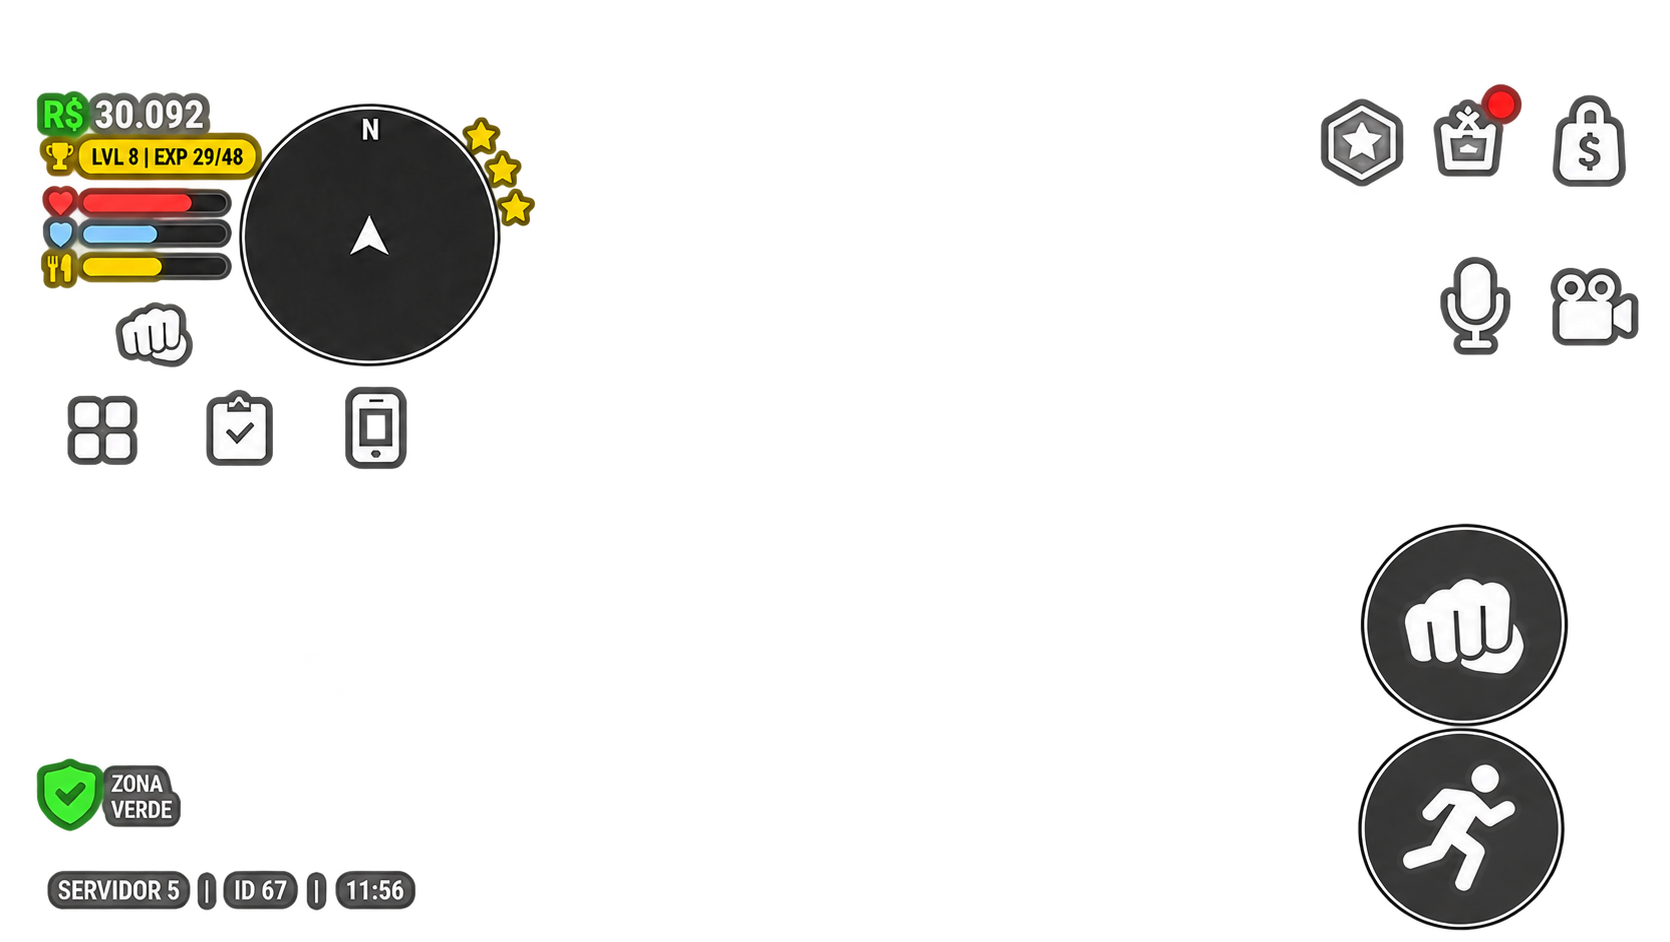
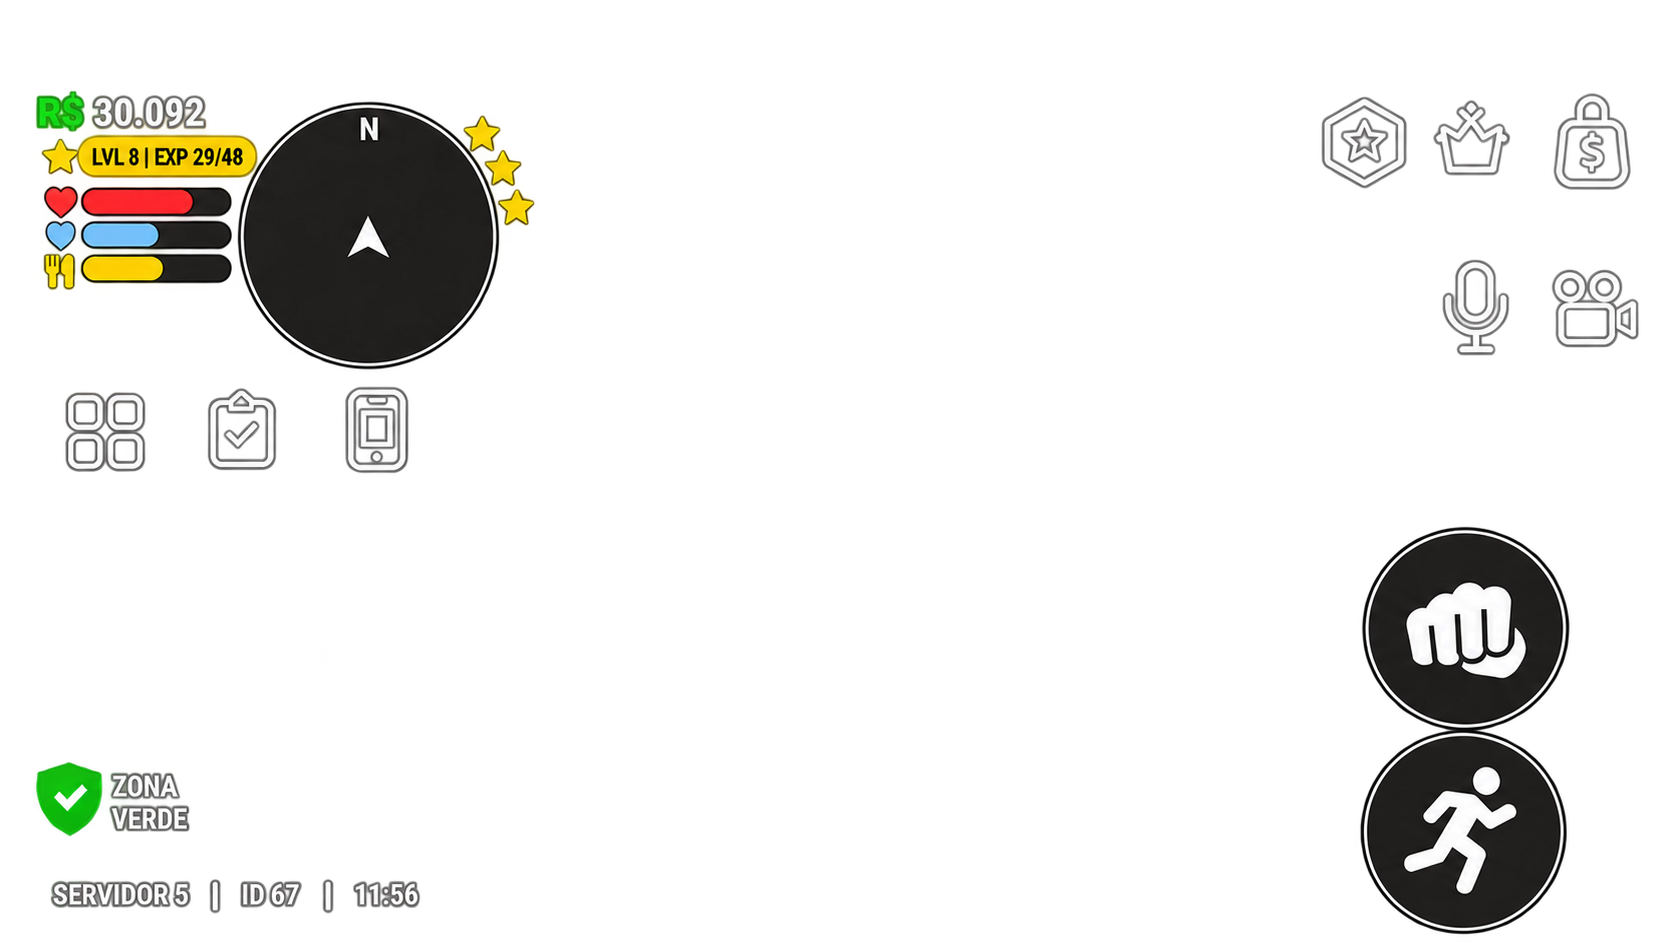
Refine HUD artwork and add verified admin chat identity in 0.5.5

diff --git a/TestePersonagem/Assets/Scripts/CharacterFlowVerification.cs b/TestePersonagem/Assets/Scripts/CharacterFlowVerification.cs
@@ -276,12 +276,15 @@ public sealed class CharacterFlowVerification : MonoBehaviour
         Check(ui.Q<Label>(className:"h2-cash").text=="30.092"&&ui.Q<Label>("stat-heart-value").text=="75","Dinheiro e vida são dados reais, sem números fixos da arte");
         player.Cash=cash;player.Health=health;
         Check(ui.Q<Label>("game-version").text=="v"+Application.version,"Número exibido acompanha a versão instalada");
+        var identity=AccountSession.Instance.State;string layoutRole=identity.accountRole;int layoutLevel=identity.adminLevel;
+        identity.accountRole="admin";identity.adminLevel=1;yield return null;
         foreach(string name in new[]{"nav-menu","nav-session","nav-phone"})
         {
             var button=ui.Q<Button>(name);button.Focus();Dispatch(button);yield return null;
             Check(hud.IsPanelOpen,"Atalho do HUB2 abre painel: "+name);hud.ClosePanel();
         }
         yield return VerifyActionSpacing();
+        identity.accountRole=layoutRole;identity.adminLevel=layoutLevel;yield return null;
         var controls=FindAnyObjectByType<MobileControls>();
         var left=new Vector2(Screen.width*.36f,Screen.height*.2f);var right=new Vector2(Screen.width*.66f,Screen.height*.4f);
         controls.ProcessTouch(10,left,Vector2.zero,TouchPhase.Began);controls.ProcessTouch(10,left+Vector2.up*200,Vector2.up*200,TouchPhase.Moved);
@@ -303,6 +306,8 @@ public sealed class CharacterFlowVerification : MonoBehaviour
         using(var evt=NavigationSubmitEvent.GetPooled())area.SendEvent(evt);
         yield return null;
         Check(InGameChat.Editing&&Visible(ui.Q("chat-composer")),"Clicar no histórico abre o campo de mensagem");
+        var chatBackground=ui.Q("chat-area").resolvedStyle.backgroundColor;
+        Check(chatBackground.a>.25f&&chatBackground.a<.6f&&chatBackground.r<.05f,"Chat aberto tem fundo preto leve e transparente");
         Check(ui.Q("action-day-night")==null,"Botão de dia e noite removido do HUD");
         player.DemoInput=Vector2.up;Vector3 before=player.transform.position;
         player.RequestJump();yield return new WaitForSecondsRealtime(.3f);
@@ -331,6 +336,11 @@ public sealed class CharacterFlowVerification : MonoBehaviour
         Check(!InGameChat.Editing,"Fechar libera os controles novamente");
         var state=AccountSession.Instance.State;string oldRole=state.accountRole;int oldAdmin=state.adminLevel;
         state.accountRole="admin";state.adminLevel=1;
+        yield return null;
+        var adminButton=ui.Q<Button>("action-admin");
+        Check(Visible(adminButton)&&adminButton.Q<HudIcon>().Kind=="admin","Conta administrativa vê o botão dourado de admin");
+        string panelBefore=GameHud.Instance.CurrentPanel;adminButton.Focus();Dispatch(adminButton);yield return null;
+        Check(GameHud.Instance.CurrentPanel==panelBefore,"Botão de admin permanece sem função");
         chat.VerificationSend=DelayedChatReply;
         chat.Open();ui.Q<TextField>("chat-input").value="Mensagem instantânea";chat.Send();
         Check(!chat.IsOpen&&!InGameChat.Editing&&ui.Q<TextField>("chat-input").value=="",
@@ -340,17 +350,28 @@ public sealed class CharacterFlowVerification : MonoBehaviour
         yield return new WaitForSecondsRealtime(1.5f);
         Check(ui.Q("chat-feed").Query<Label>().ToList().FindAll(label=>label.text.Contains("Mensagem instantânea")).Count==1,
             "Confirmação e sincronização não duplicam o eco local");
+        Check(ui.Q("chat-feed").Query<Label>(className:"chat-author-admin").ToList().Exists(label=>label.text=="[ADMIN] "+state.name+":"),
+            "Mensagem de admin mantém tag e nome destacados após confirmação");
+        chat.Receive(new ChatMessage{id=51,messageId="verified-admin",uid="902",name="Admin Remoto",isAdmin=true,text="<b>Texto admin literal</b>"});
+        chat.Receive(new ChatMessage{id=52,messageId="normal-player",uid="903",name="Jogador Normal",isAdmin=false,text="Mensagem comum"});
+        yield return null;
+        var author=ui.Q("chat-feed").Query<Label>(className:"chat-author-admin").ToList().Find(label=>label.text=="[ADMIN] Admin Remoto:");
+        Check(author!=null&&author.resolvedStyle.color.r>.8f&&author.resolvedStyle.color.b<.6f,"Nome de admin recebido de outro jogador aparece dourado");
+        Check(ui.Q("chat-feed").Query<Label>().ToList().Exists(label=>label.text=="<b>Texto admin literal</b>"&&!label.enableRichText),"Texto de admin continua literal, sem executar marcação");
+        Check(ui.Q("chat-feed").Query<Label>().ToList().Exists(label=>label.text=="Jogador Normal: Mensagem comum"&&!label.ClassListContains("chat-author-admin")),"Usuário normal não recebe tag administrativa");
+        chat.Open();yield return null;yield return Capture("admin-chat");chat.Close();
         chat.Open();ui.Q<TextField>("chat-input").value="/goto 2";chat.Send();
         Check(ui.Q("chat-feed").Query<Label>().ToList().Exists(label=>label.text=="/goto 2"&&label.ClassListContains("chat-admin")),
             "Comando administrativo aparece imediatamente em verde neon");
         yield return new WaitForSecondsRealtime(1.5f);
-        Check(ui.Q("chat-feed").Query<Label>().ToList().Exists(label=>label.text.StartsWith("[ADM]")&&label.ClassListContains("chat-admin")),
+        Check(ui.Q("chat-feed").Query<Label>().ToList().Exists(label=>label.text.StartsWith("[ADMIN]")&&label.ClassListContains("chat-admin")),
             "Resposta administrativa mantém estilo verde neon");
         chat.Open();ui.Q<TextField>("chat-input").value="Falha simulada";chat.Send();
         yield return new WaitForSecondsRealtime(1.5f);
         Check(ui.Q("chat-feed").Query<Label>().ToList().Exists(label=>label.text.Contains("Falha simulada")&&label.ClassListContains("chat-error")),
             "Envio rejeitado é marcado como falha e não como mensagem entregue");
         chat.VerificationSend=null;state.accountRole=oldRole;state.adminLevel=oldAdmin;
+        yield return null;Check(!Visible(adminButton),"Botão de admin fica oculto para conta normal");
         yield return Capture("chat-feed");
     }
 
@@ -359,7 +380,8 @@ public sealed class CharacterFlowVerification : MonoBehaviour
         yield return new WaitForSecondsRealtime(.5f);
         if(text.StartsWith("/")){done(new MultiplayerReply {command=new AdminCommandReply {name="goto",status="not_implemented",message="/goto: função ainda não disponível."}});yield break;}
         if(text=="Falha simulada"){done(new MultiplayerReply {code="INVALID_MESSAGE",error="Rejeição simulada."});yield break;}
-        var message=new ChatMessage {id=50,messageId=id,uid=AccountSession.Instance.State.uid,name=AccountSession.Instance.State.name,text=text};
+        var message=new ChatMessage {id=50,messageId=id,uid=AccountSession.Instance.State.uid,name=AccountSession.Instance.State.name,
+            isAdmin=AccountSession.Instance.State.accountRole=="admin"&&AccountSession.Instance.State.adminLevel>0,text=text};
         InGameChat.Instance.Receive(message);done(new MultiplayerReply {message=message});
         InGameChat.Instance.Receive(message);
     }

diff --git a/TestePersonagem/Assets/Scripts/InGameChat.cs b/TestePersonagem/Assets/Scripts/InGameChat.cs
@@ -11,7 +11,7 @@ public sealed class InGameChat : MonoBehaviour
     public bool IsOpen {get;private set;}
     public bool Sending {get;private set;}
     public int ReceivedCount {get;private set;}
-    sealed class ChatLine {public string text,id,uid,kind;}
+    sealed class ChatLine {public string text,id,uid,kind,author,body;public bool isAdmin;}
     sealed class Outgoing {public string text,id;public ChatLine line;}
     readonly List<ChatLine> lines=new List<ChatLine>();
     readonly Queue<Outgoing> outgoing=new Queue<Outgoing>();
@@ -98,7 +98,8 @@ public sealed class InGameChat : MonoBehaviour
         string id=Guid.NewGuid().ToString();bool command=text.StartsWith("/");
         bool admin=AccountSession.Instance.State.accountRole=="admin"&&AccountSession.Instance.State.adminLevel>0;
         var line=new ChatLine {id=id,uid=AccountSession.Instance.State.uid,
-            text=command?text:AccountSession.Instance.State.name+": "+text,kind=command&&admin?"admin":"normal"};
+            text=command?text:AccountSession.Instance.State.name+": "+text,kind=command&&admin?"admin":"normal",
+            isAdmin=admin,author=command?null:AccountSession.Instance.State.name,body=command?null:text};
         lines.Add(line);TrimLines();
         outgoing.Enqueue(new Outgoing {text=text,id=id,line=line});
         input.value="";Close(); // Local feedback never waits for the network.
@@ -120,12 +121,16 @@ public sealed class InGameChat : MonoBehaviour
             }
             if(string.IsNullOrEmpty(reply?.code)&&reply?.message!=null)Receive(reply.message);
             else if(string.IsNullOrEmpty(reply?.code)&&reply?.command!=null)
-            {item.line.text="[ADM] "+reply.command.message;item.line.kind="admin";Render();}
+            {item.line.text="[ADMIN] "+reply.command.message;item.line.kind="admin";Render();}
             else
             {
                 // A sync may already have confirmed a request whose HTTP response was lost.
                 if(item.line.kind!="confirmed")
-                {item.line.text+=" — não enviado: "+(reply?.error??"falha na conexão. Envie novamente.");item.line.kind="error";Render();}
+                {
+                    string failure=" — não enviado: "+(reply?.error??"falha na conexão. Envie novamente.");
+                    item.line.text+=failure;if(item.line.body!=null)item.line.body+=failure;
+                    item.line.kind="error";Render();
+                }
             }
             outgoing.Dequeue();
             float remaining=1.3f-(Time.realtimeSinceStartup-started);
@@ -140,8 +145,9 @@ public sealed class InGameChat : MonoBehaviour
         var existing=string.IsNullOrEmpty(message.messageId)?null:lines.Find(line=>line.id==message.messageId&&line.uid==message.uid);
         if(existing!=null&&existing.kind=="confirmed")return;
         ReceivedCount++;messageTexts.Add(message.text);if(messageTexts.Count>60)messageTexts.RemoveAt(0);
-        if(existing!=null){existing.text=message.name+": "+message.text;existing.kind="confirmed";Render();}
-        else {lines.Add(new ChatLine {text=message.name+": "+message.text,id=message.messageId,uid=message.uid,kind="confirmed"});TrimLines();Render();}
+        if(existing!=null)
+        {existing.text=message.name+": "+message.text;existing.author=message.name;existing.body=message.text;existing.isAdmin=message.isAdmin;existing.kind="confirmed";Render();}
+        else {lines.Add(new ChatLine {text=message.name+": "+message.text,author=message.name,body=message.text,isAdmin=message.isAdmin,id=message.messageId,uid=message.uid,kind="confirmed"});TrimLines();Render();}
     }
     public bool HasMessage(string text)=>messageTexts.Contains(text);
     public void ResetHistory(){lines.RemoveAll(line=>!outgoingContains(line));messageTexts.Clear();ReceivedCount=0;SystemLine("Chat da sala · mensagens recentes");}
@@ -153,13 +159,27 @@ public sealed class InGameChat : MonoBehaviour
     {
         if(feed==null)return;feed.Clear();feed.pickingMode=IsOpen?PickingMode.Position:PickingMode.Ignore;
         int start=IsOpen?0:Mathf.Max(0,lines.Count-6);
-        Label last=null;
+        VisualElement last=null;
         for(int i=start;i<lines.Count;i++)
         {
-            last=new Label(lines[i].text) {enableRichText=false,pickingMode=PickingMode.Ignore};last.AddToClassList("chat-line");
-            if(lines[i].kind=="system")last.AddToClassList("chat-system");
-            if(lines[i].kind=="admin")last.AddToClassList("chat-admin");
-            if(lines[i].kind=="error")last.AddToClassList("chat-error");
+            var line=lines[i];
+            if(line.isAdmin&&!string.IsNullOrEmpty(line.author))
+            {
+                var row=new VisualElement{pickingMode=PickingMode.Ignore};row.AddToClassList("chat-message");
+                var author=new Label("[ADMIN] "+line.author+":"){enableRichText=false,pickingMode=PickingMode.Ignore};
+                author.AddToClassList("chat-line");author.AddToClassList("chat-author-admin");row.Add(author);
+                var body=new Label(line.body){enableRichText=false,pickingMode=PickingMode.Ignore};
+                body.AddToClassList("chat-line");body.AddToClassList("chat-message-body");if(line.kind=="error")body.AddToClassList("chat-error");row.Add(body);
+                last=row;
+            }
+            else
+            {
+                var label=new Label(line.text){enableRichText=false,pickingMode=PickingMode.Ignore};label.AddToClassList("chat-line");
+                if(line.kind=="system")label.AddToClassList("chat-system");
+                if(line.kind=="admin")label.AddToClassList("chat-admin");
+                if(line.kind=="error")label.AddToClassList("chat-error");
+                last=label;
+            }
             feed.Add(last);
         }
         if(last!=null){var target=last;feed.schedule.Execute(()=>{if(feed.Contains(target))feed.ScrollTo(target);});}

diff --git a/TestePersonagem/Assets/Scripts/GameHud.cs b/TestePersonagem/Assets/Scripts/GameHud.cs
@@ -27,6 +27,8 @@ public sealed class GameHud : MonoBehaviour
     Label avatarLabel,playerNameLabel,uidLabel,speedLabel,motionLabel,coordinates,clock,heading,drawerTitle,toastLabel,cloudSaveLabel;
     Label distanceMetric,timeMetric,topSpeedMetric;
     Button sprint;
+    Button adminButton;
+    bool HasAdminAccess=>AccountSession.HasCharacter&&AccountSession.Instance.State.accountRole=="admin"&&AccountSession.Instance.State.adminLevel>0;
     HudIcon miniMarker,mapMarker;
     Image sprintArtwork;
     Label levelLabel,cashLabel,dateLabel,healthLabel,energyLabel,waterLabel;
@@ -126,7 +128,6 @@ public sealed class GameHud : MonoBehaviour
         miniImage=new Image{image=miniTexture,pickingMode=PickingMode.Ignore};miniImage.AddToClassList("mini-image");miniViewport.Add(miniImage);
         miniMarker=new HudIcon("arrow");miniMarker.AddToClassList("marker");miniMarker.SetInk(Color.white);miniViewport.Add(miniMarker);
         Text("N","h2-north",miniButton);
-        var unarmed=Element("h2-unarmed");unarmed.pickingMode=PickingMode.Ignore;unarmed.Add(HudAtlas.Image("h2_unarmed"));
 
         var nav=Element("h2-nav");Block(nav);
         AtlasButton("h2_menu","h2-nav-button","Menu [Tab]",()=>OpenPanel("menu"),nav).name="nav-menu";
@@ -137,6 +138,9 @@ public sealed class GameHud : MonoBehaviour
         var inventory=AtlasButton("h2_inventory","h2-top-button","Inventário ainda indisponível",()=>{},top);inventory.name="atlas-inventory";inventory.SetEnabled(false);
         var store=AtlasButton("h2_store","h2-top-button","Loja ainda indisponível",()=>{},top);store.SetEnabled(false);
         var tools=Element("h2-tools");Block(tools);
+        adminButton=IconButton("admin","h2-admin","Administração · em breve",()=>{},tools);adminButton.name="action-admin";
+        ((HudIcon)adminButton[0]).SetInk(new Color(1,.8f,.22f));Text("ADMIN","h2-admin-caption",adminButton);
+        adminButton.style.display=HasAdminAccess?DisplayStyle.Flex:DisplayStyle.None;
         var microphone=AtlasButton("h2_microphone","h2-microphone","Chat de voz ainda indisponível",()=>{},tools);microphone.SetEnabled(false);
         AtlasButton("h2_camera","h2-camera","Centralizar câmera [C]",()=>TriggerAction("camera"),tools).name="action-camera";
 
@@ -360,6 +364,7 @@ public sealed class GameHud : MonoBehaviour
     void Update()
     {
         if(!player)return;
+        if(adminButton!=null)adminButton.style.display=HasAdminAccess?DisplayStyle.Flex:DisplayStyle.None;
         root.style.visibility=StartupLoader.IsLoading||CityEntryLoading.Active||
             (AccountSession.Instance&&AccountSession.Instance.AuthVisible)?Visibility.Hidden:Visibility.Visible;
         root.SetEnabled(!StartupLoader.IsLoading && !AccountSession.InputBlocked);

diff --git a/tools/verify_android_release.py b/tools/verify_android_release.py
@@ -11,6 +11,7 @@ parser.add_argument('--stairs',action='store_true')
 parser.add_argument('--walk',action='store_true')
 parser.add_argument('--network',action='store_true')
 parser.add_argument('--hud2',action='store_true')
+parser.add_argument('--admin-chat',action='store_true')
 args=parser.parse_args()
 assert re.fullmatch(r'\d+\.\d+\.\d+',args.version)
 
@@ -49,6 +50,7 @@ with zipfile.ZipFile(apk) as archive:
     assert b'MultiplayerWorld' in metadata and b'MultiplayerPeer' in metadata and b'JumpPhase' in metadata
     if args.chat:assert b'InGameChat' in metadata and b'ChatMessage' in metadata and b'OpenKeyboard' in metadata
     if args.network:assert b'RemoteAvatarAnimation' in metadata and b'RemoteMotionBuffer' in metadata and b'updatedAt' in metadata
+    if args.admin_chat:assert b'isAdmin' in metadata and b'chat-author-admin' in metadata and b'action-admin' in metadata
     if args.hud2:
         assert b'Hud2Atlas' in metadata and b'h2_sprint' in metadata
         layout_meta=(root/'TestePersonagem/Assets/Resources/Hud2AtlasLayout.json.meta').read_text()
@@ -96,6 +98,7 @@ report={'result':'ANDROID_RELEASE_VERIFIED','version':args.version,'versionCode'
     'authored_walking_included':args.walk,
     'remote_motion_and_animation_fix_included':args.network,
     'transparent_hub2_layout_included':args.hud2,
+    'admin_identity_and_placeholder_button_included':args.admin_chat,
     'bytes':release.stat().st_size,'sha256':hashlib.sha256(release.read_bytes()).hexdigest(),
     'device_runtime_tested':False,'file':str(release)}
 (root/('tools/android-'+args.version.replace('.','')+'-validation.json')).write_text(json.dumps(report,indent=2),encoding='utf-8')

diff --git a/TestePersonagem/Assets/Scripts/HudIcon.cs b/TestePersonagem/Assets/Scripts/HudIcon.cs
@@ -32,6 +32,10 @@ public sealed class HudIcon : VisualElement
         void Box(float x,float y,float w,float h)=>Line(x,y,x+w,y,x+w,y+h,x,y+h,x,y);
         switch(Kind)
         {
+            case "admin":
+                p.BeginPath();p.MoveTo(Point(3,7));p.LineTo(Point(7,11));p.LineTo(Point(12,3));
+                p.LineTo(Point(17,11));p.LineTo(Point(21,7));p.LineTo(Point(19,18));p.LineTo(Point(5,18));p.ClosePath();p.Fill();p.Stroke();
+                Line(5,21,19,21);break;
             case "menu": Box(3,3,7,7);Box(14,3,7,7);Box(3,14,7,7);Box(14,14,7,7);break;
             case "person": Circle(12,7,3.5f);Line(4,21,4,18,7,14,17,14,20,18,20,21);break;
             case "map": Line(3,5,9,3,15,6,21,3,21,19,15,22,9,19,3,21,3,5);Line(9,3,9,19);Line(15,6,15,22);break;

diff --git a/TestePersonagem/Assets/Editor/Hud2Setup.cs b/TestePersonagem/Assets/Editor/Hud2Setup.cs
@@ -10,7 +10,7 @@ public static class Hud2Setup
     {
         AssetDatabase.Refresh(ImportAssetOptions.ForceSynchronousImport);
         const string path="Assets/Resources/Hud2Atlas.png";
-        if(!File.ReadAllBytes(path).SequenceEqual(File.ReadAllBytes("../personagem/HUB2.png")))
+        if(!File.ReadAllBytes(path).SequenceEqual(File.ReadAllBytes("../personagem/hud novo.png")))
             throw new Exception("O atlas HUB2 deve preservar o PNG original.");
         var importer=(TextureImporter)AssetImporter.GetAtPath(path);
         importer.textureType=TextureImporterType.Default;importer.alphaIsTransparency=true;

diff --git a/TestePersonagem/Assets/Scripts/AccountMultiplayer.cs b/TestePersonagem/Assets/Scripts/AccountMultiplayer.cs
@@ -35,6 +35,7 @@ using UnityEngine.Networking;
 {
     public int id;
     public string messageId,uid,name,text;
+    public bool isAdmin;
     public long sentAt;
 }
 [Serializable] public class ChatBody {public string clientId,messageId,text;}

diff --git a/releases/README.md b/releases/README.md
@@ -8,7 +8,7 @@ O download é automático quando `versionCode` aumenta. Antes de instalar, o cli
 
 1. Atualize **version** e **versionCode** em `TestePersonagem/Assets/Resources/GameVersion.json`. Ambos devem identificar uma nova distribuição, inclusive em relação a APKs de teste locais. O código precisa ser maior que o anterior. `GameVersionBuildSetup` aplica esse arquivo automaticamente em todas as compilações, inclusive pela interface do Editor. Loading e HUD mostram `Application.version`, isto é, a versão realmente instalada; consultar uma atualização não troca esse número antes da instalação.
 2. Compile Windows, execute verificações e gere o APK usando `AndroidSetup.Build`. Preserve a chave de assinatura usada nos APKs anteriores. A configuração atual usa a chave de desenvolvimento local: ela precisa ser mantida para atualizar os aparelhos de teste.
-3. Execute `python tools/verify_android_release.py --version X.Y.Z --version-code N --log nome-do-build.log --chat --updater --stairs --walk --network --hud2`. Os programas Android ficam fora do Git; configure-os localmente conforme o ambiente. Para preparar o atlas HUB2 antes de compilar, use `Hud2Setup.BuildAndroid`.
+3. Execute `python tools/verify_android_release.py --version X.Y.Z --version-code N --log nome-do-build.log --chat --updater --stairs --walk --network --hud2 --admin-chat`. Os programas Android ficam fora do Git; configure-os localmente conforme o ambiente. Para preparar o atlas refinado de `personagem/hud novo.png` antes de compilar, use `Hud2Setup.BuildAndroid`.
 4. Envie o código validado ao GitHub antes de criar a release.
 5. Prepare as notas da versão e, com o GitHub CLI autenticado, execute `python tools/publish_android_update.py --apk TestePersonagem/Builds/Android/HorizonteBrasil-X.Y.Z.apk --notes-file caminho/das-notas.txt`.
 6. O publicador cria a release com o APK e somente depois escreve o manifesto. Confira e faça commit/push de `releases/android.json` para oferecer a atualização.
